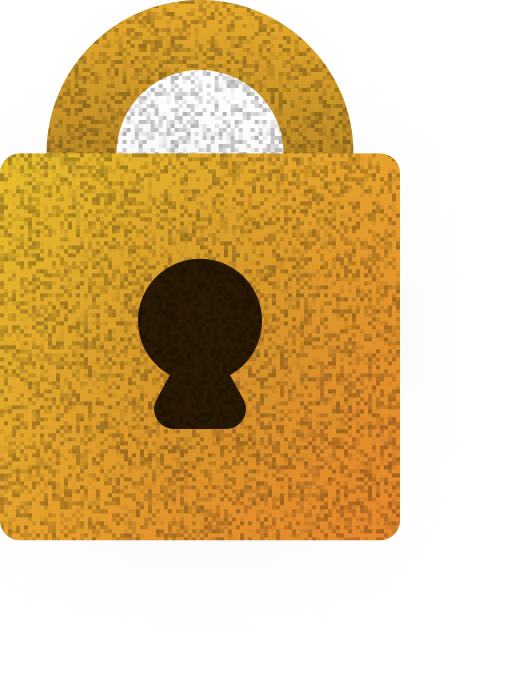
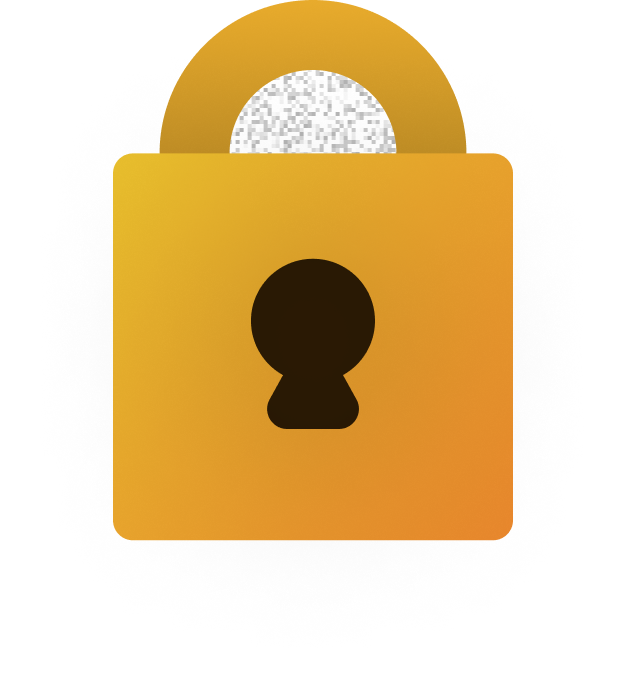
Update

diff --git a/lumos/index.html b/lumos/index.html
@@ -31,7 +31,7 @@
     <br>
     <div id="features">
         <div id="feature">
-            <img src="/images/lumos_lock.png" alt="Lumos encrypts files"><br><br>
+            <img src="/images/lumos_lock.png" alt="Lumos encrypts files"><br>
             <strong>Encryption</strong>
             <br><br>
             <span class="text_container">Lumos features safe AES encryption out of the box to protect your files from hackers.<br>
@@ -39,20 +39,20 @@
 
         </div>
         <div id="feature">
-            <img src="/images/lumos_vprotection.png" alt="Lumos supports virus scanning"><br><br>
+            <img src="/images/lumos_vprotection.png" alt="Lumos supports virus scanning"><br>
             <strong>Virus Protection</strong>
             <br><br>
             <span class="text_container">To prevent viruses from beeing uploaded, the admin can enable virus protection.<br>
             This will scan any file uploaded with the ClamAV virus database.</span>
         </div>
         <div id="feature">
-            <img src="/images/lumos_chat.png" alt="Lumos makes collaboration easy"><br><br>
+            <img src="/images/lumos_chat.png" alt="Lumos makes collaboration easy"><br>
             <strong>Collaboration</strong>
             <br><br>
             <span class="text_container">You can easily work together. Lumos has helpful features like a built-in chat with file sharing support This makes collabortation simple and fast.</span>
         </div>
         <div id="feature">
-            <img src="/images/lumos_admin.png" alt="Lumos makes collaboration easy"><br><br>
+            <img src="/images/lumos_admin.png" alt="Lumos makes collaboration easy"><br>
             <strong>Administration</strong>
             <br><br>
             <span class="text_container">Lumos can be easily administrated using the well-organized dashboard. You can simply monitor the system capacity and manage users.</span>

diff --git a/lumos/styles/index.css b/lumos/styles/index.css
@@ -90,7 +90,7 @@ span#hero_buttons button.second {
 
 #features #feature {
     min-width: 300px;
-    background-color: #1f1f1f;
+    background-color: transparent;
     margin: 25vw;
     margin-top: 30px;
     margin-bottom: 30px;
@@ -99,10 +99,17 @@ span#hero_buttons button.second {
     font-size: large;
     text-align: center;
     height: 330px;
+    border-style: solid;
+    border-width: 1px;
+    border-color: #333333;
 }
 
 #features #feature strong {
     font-size: large;
+}
+
+#features #feature img {
+    max-height: 128px;
 }
 
 span.text_container {
